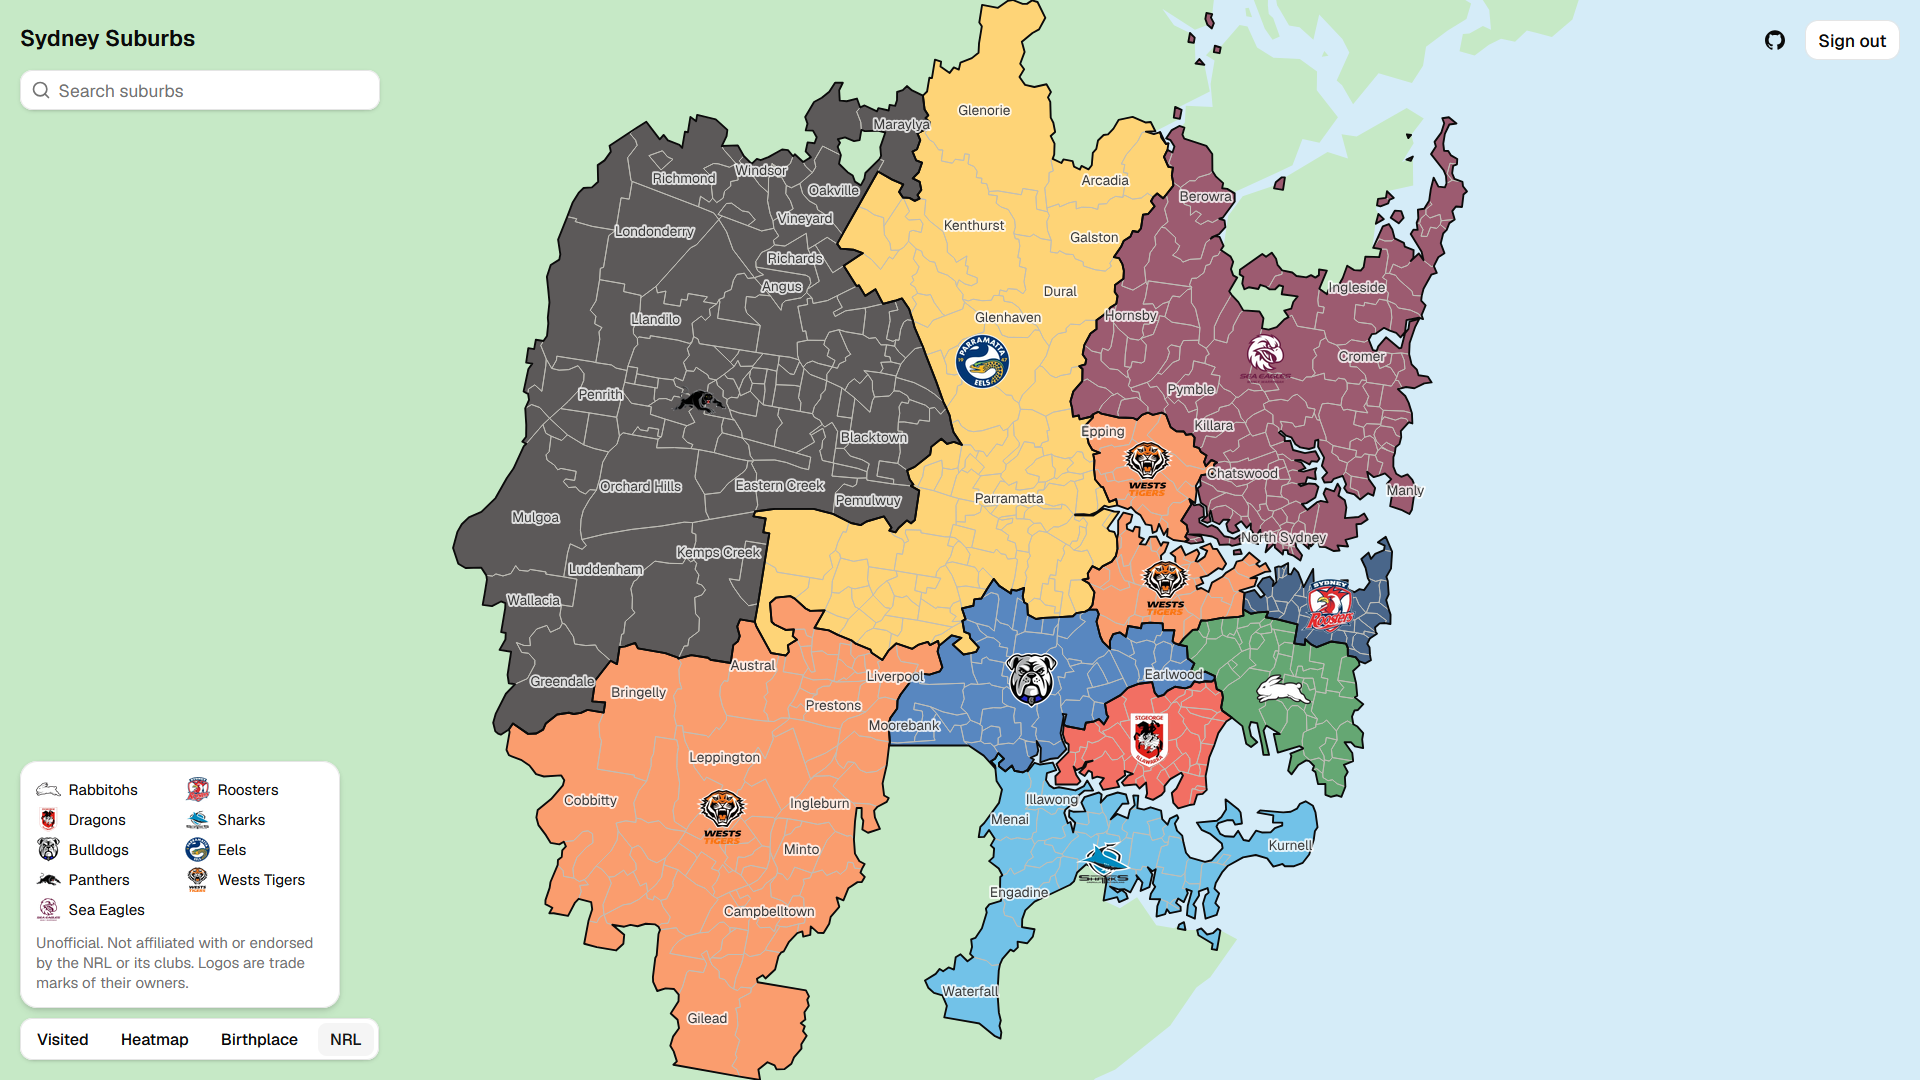
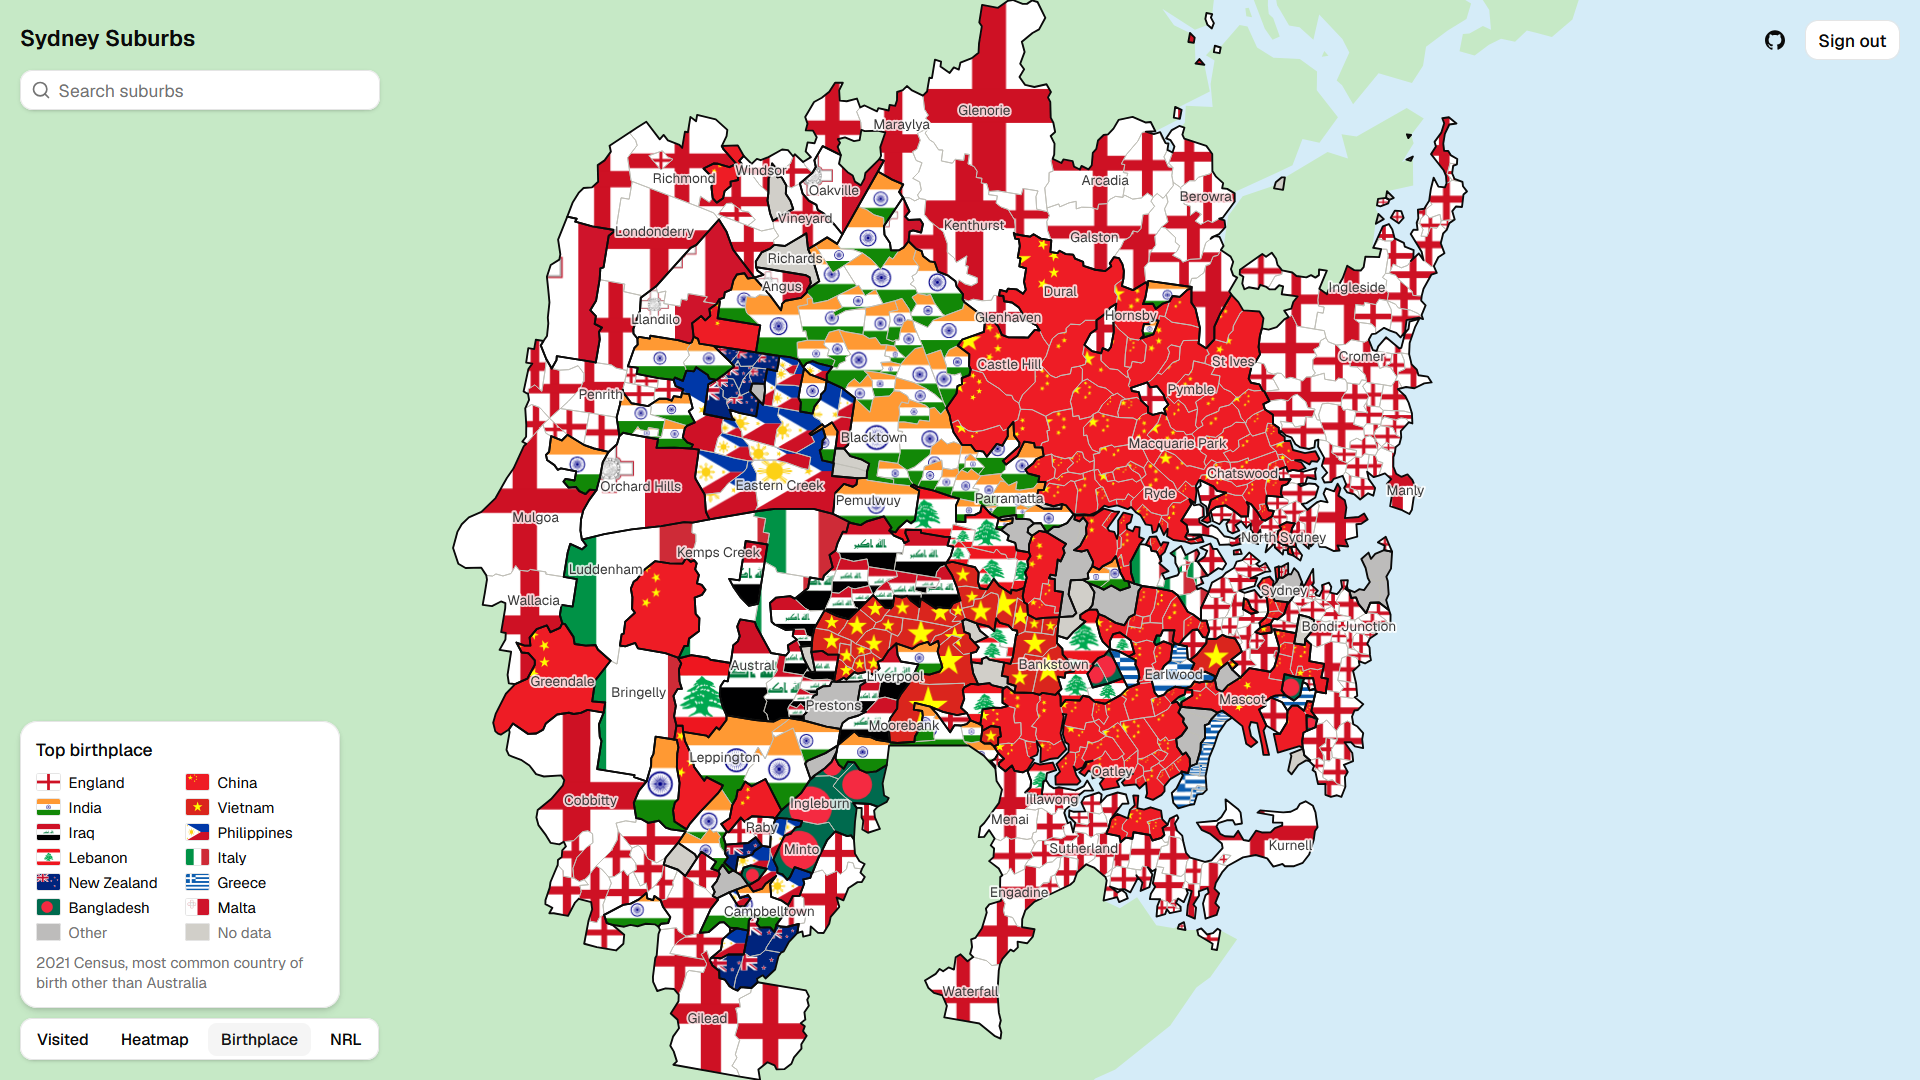
chore: add birthplace map to README

Changed region(s): [[0.2188, 0.0, 0.7812, 1.0], [0.0, 0.6417, 0.1875, 0.9167]]

diff --git a/README.md b/README.md
@@ -2,7 +2,8 @@
 
 ![Map of Sydney's Suburbs](.github/assets/screenshot1.png)
 ![Heatmap of Sydney's Suburbs](.github/assets/screenshot2.png)
-![NRL Map of Sydney's Suburbs](.github/assets/screenshot3.png)
+![Birthplace Map of Sydney's Suburbs](.github/assets/screenshot3.png)
+![NRL Map of Sydney's Suburbs](.github/assets/screenshot4.png)
 
 - Interactive map of Greater Sydney's 648 suburbs
 - Photo, summary and census stats for each suburb
